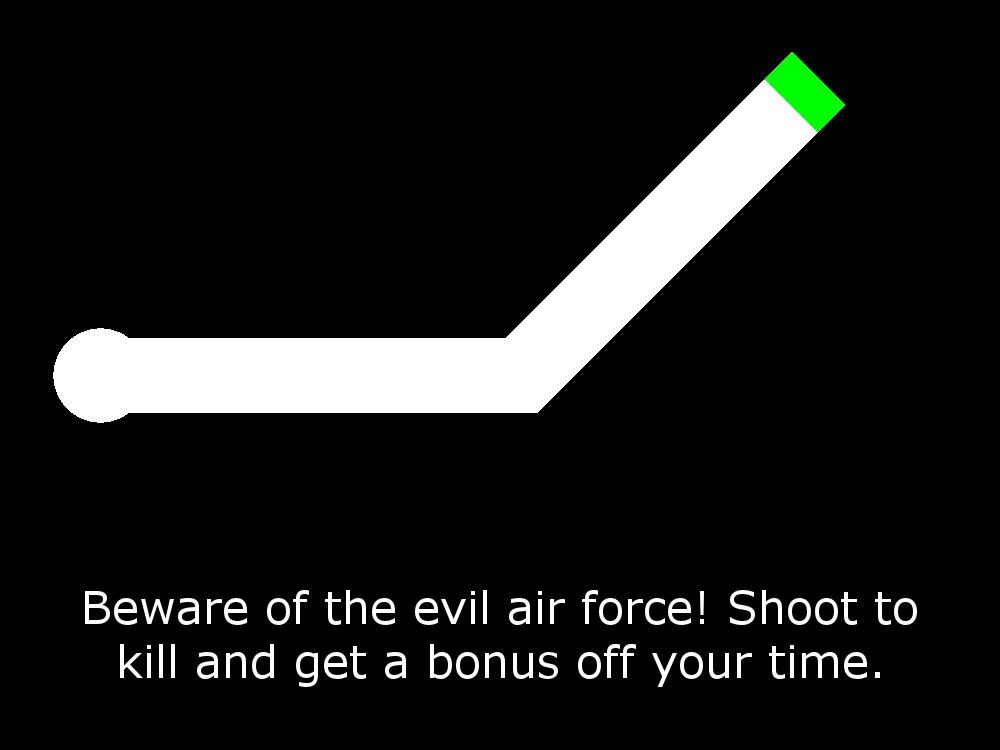
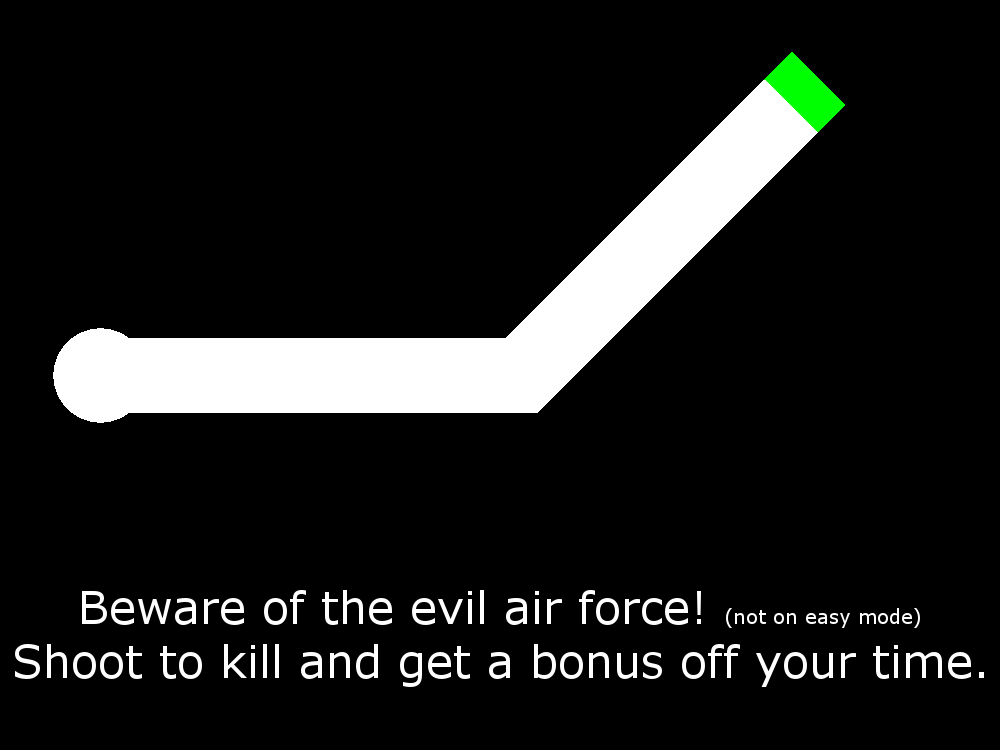
Add difficulty functionality
Easy mode - no enemies
Medium mode - enemy shoots slower
Hard mode - enemy shoots fast

Changed region(s): [[0.0, 0.7667, 0.992, 0.92]]

diff --git a/Game/src/me/sergey/game/GameLoop.java b/Game/src/me/sergey/game/GameLoop.java
@@ -4,6 +4,8 @@ import java.io.File;
 import java.io.FileReader;
 import java.io.FileWriter;
 import java.io.IOException;
+import java.math.RoundingMode;
+import java.text.DecimalFormat;
 import java.util.ArrayList;
 import java.util.Arrays;
 import java.util.Collections;
@@ -31,6 +33,7 @@ public class GameLoop extends AnimationTimer{
     private final GButton connect;
     private final GButton start;
     private final GButton quit;
+    private final GButton difficulty_btn;
     private final Player player;
     private final Player enemy;
     private final List<List<Integer>> directions;
@@ -42,12 +45,13 @@ public class GameLoop extends AnimationTimer{
     private final AudioClip shot;
     private final AudioClip hit;
     private final AudioClip kill;
+    private int difficulty;
     private FileWriter write;
     private FileReader read;
     private int stage;
     private HashMap<String, String> inputs;
     private ArrayList<String> keys;
-    private double elapsed;
+    private double score;
     private int angle;
     private int lastHit;
     private int timeOffset;
@@ -142,6 +146,27 @@ public class GameLoop extends AnimationTimer{
             }
         };
         
+        difficulty = 1;
+        difficulty_btn = new GButton(gc, "/assets/easy.png", 865, 720){
+            @Override
+            public void onClick(){
+                difficulty += 1;
+                switch(difficulty){
+                    default:
+                        difficulty = 1;
+                    case 1:
+                        setImg("/assets/easy.png");
+                        break;
+                    case 2:
+                        setImg("/assets/medium.png");
+                        break;
+                    case 3:
+                        setImg("/assets/hard.png");
+                        break;
+                }
+            }
+        };
+        
         directions = Arrays.asList(
                     Arrays.asList(225, 180, 135),
                     Arrays.asList(270, 360, 90),
@@ -230,15 +255,16 @@ public class GameLoop extends AnimationTimer{
             connect.draw();
             start.draw();
             quit.draw();
+            difficulty_btn.draw();
         }
         
         else if(stage > 0){ // Game Logic
-            elapsed = (nanos-startNanos)/1_000_000_000.0 - timeOffset;
+            score = (double)Math.round(((nanos-startNanos)/1_000_000_000.0 - timeOffset)/(difficulty) * 10000d) / 10000d;
             gc.setFont(Font.font("Lucidia Fax", 18));
             gc.setFill(Color.color(1, 1, 1));
             gc.fillText("Ammo: " + player.getAmmo(), 10, 20);
             gc.fillText("Health: " + player.getHealth(), 100, 20);
-            gc.fillText("Score: " + elapsed, 10, 38);
+            gc.fillText("Score: " + score, 10, 38);
             
             if(first){ // Check whether a new stage just loaded
                 player.setXY(75, 350);
@@ -253,11 +279,17 @@ public class GameLoop extends AnimationTimer{
                 canFire = true;
             }
             
-            if(enemyPositions.containsKey(stage) && enemy.getHealth() != 0){
+            if(enemyPositions.containsKey(stage) && enemy.getHealth() != 0 && difficulty != 1){
                 enemy.setXY(enemyPositions.get(stage).get(0), enemyPositions.get(stage).get(1), true);
                 enemy.setFacing((int)Math.toDegrees(Math.atan2(enemy.getY() - player.getY(), enemy.getX() - player.getX())) - 90);
                 enemy.draw();
-                if(random.nextInt(125) == 0){
+                int chance = 0;
+                if(difficulty == 2){
+                    chance = 200;
+                }else if(difficulty == 3){
+                    chance = 125;
+                }
+                if(random.nextInt(chance) == 0){
                     enemy.fire();
                     shot.play(0.5);
                 }
@@ -464,19 +496,19 @@ public class GameLoop extends AnimationTimer{
             gc.fillText(playerName, 250, 450);
             
             gc.setFont(Font.font("Lucida Fax", 20));
-            gc.fillText("Score: " + elapsed, 310, 322);
+            gc.fillText("Score: " + score, 310, 322);
             
             List<Double> scores = new ArrayList<>(leaderboard.values());
             Collections.sort(scores);
             scores = scores.subList(0, Math.min(6, scores.size()));
-            for(Double score : scores){
+            for(Double leaderScore : scores){
                 for(String leader : leaderboard.keySet()){
-                    if(leaderboard.get(leader).equals(score)){
-                        int pos = scores.indexOf(score);
+                    if(leaderboard.get(leader).equals(leaderScore)){
+                        int pos = scores.indexOf(leaderScore);
                         gc.setFont(Font.font("Lucida Fax", 26));
                         gc.fillText(pos+1 + ": " + leader + "\n", 780, 380 + pos * 40 + pos * 25);
                         gc.setFont(Font.font("Lucida Fax", 20));
-                        gc.fillText(score + "\n\n", 780, 380 + pos * 40 + pos * 25 + 25);
+                        gc.fillText(leaderScore + "\n\n", 780, 380 + pos * 40 + pos * 25 + 25);
                     }
                 }
             }
@@ -501,16 +533,16 @@ public class GameLoop extends AnimationTimer{
             }
             
             gc.setFont(Font.font("Lucida Fax", 26));
-            gc.fillText("Score: " + elapsed, 310, 322);
+            gc.fillText("Score: " + score, 310, 322);
         }
     }
     
     public void saveQuit(){
         err = "";
         if(!playerName.equals("")){
-            leaderboard.put(playerName, elapsed);
+            leaderboard.put(playerName, score);
             try{
-                write.write(playerName + ":" + elapsed + ";");
+                write.write(playerName + ":" + score + ";");
                 write.flush();
             }catch(NullPointerException e){
             }catch(IOException e){

diff --git a/Game/src/me/sergey/sprites/Sprite.java b/Game/src/me/sergey/sprites/Sprite.java
@@ -12,6 +12,7 @@ public class Sprite extends Base{
     protected int angle;
     protected Rotate r;
     protected PixelReader sprReader;
+    protected boolean check;
     
     public Sprite(GraphicsContext gc, String path){
         this(gc, path, -1, -1);
@@ -52,6 +53,7 @@ public class Sprite extends Base{
     
     @Override
     public void draw(){
+        check = true;
         if(x >= 0 && y >= 0){
             gc.save();
             r = new Rotate(angle, x+img.getWidth()/2, y+img.getHeight()/2); // Set pivot around centerpoint
@@ -62,6 +64,10 @@ public class Sprite extends Base{
     }
     
     public boolean touches(Sprite target){
+        if(!check){
+            return false;
+        }
+        check = false;
         return !(
            target.getX() > this.x + img.getWidth()
         || target.getX() + target.getImg().getWidth() < this.x
